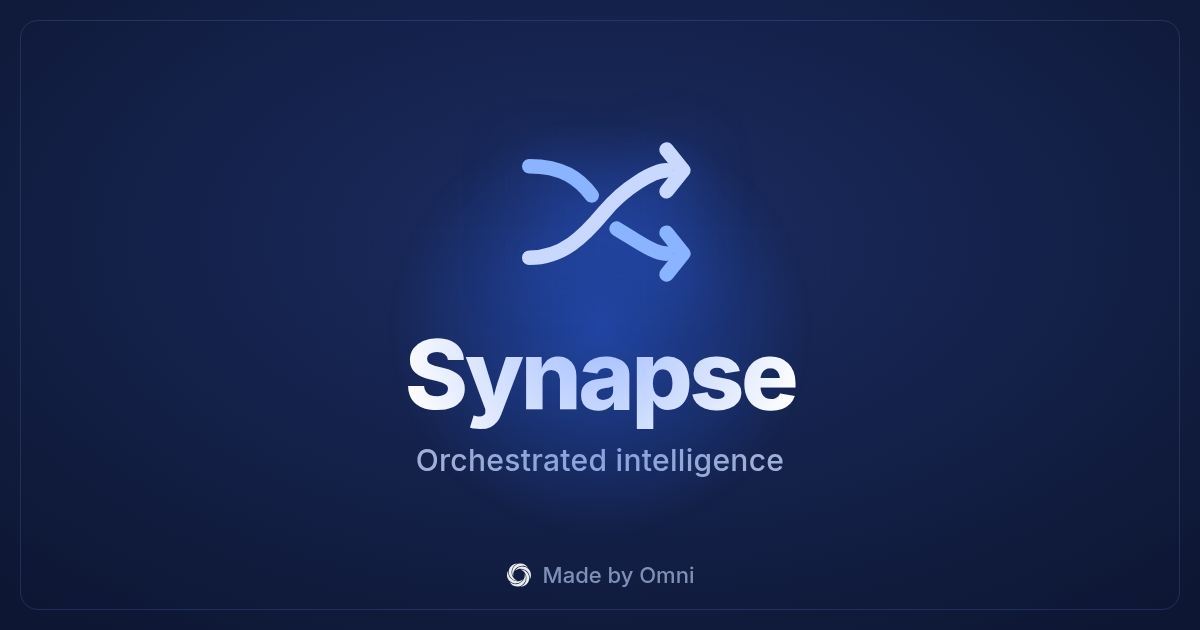
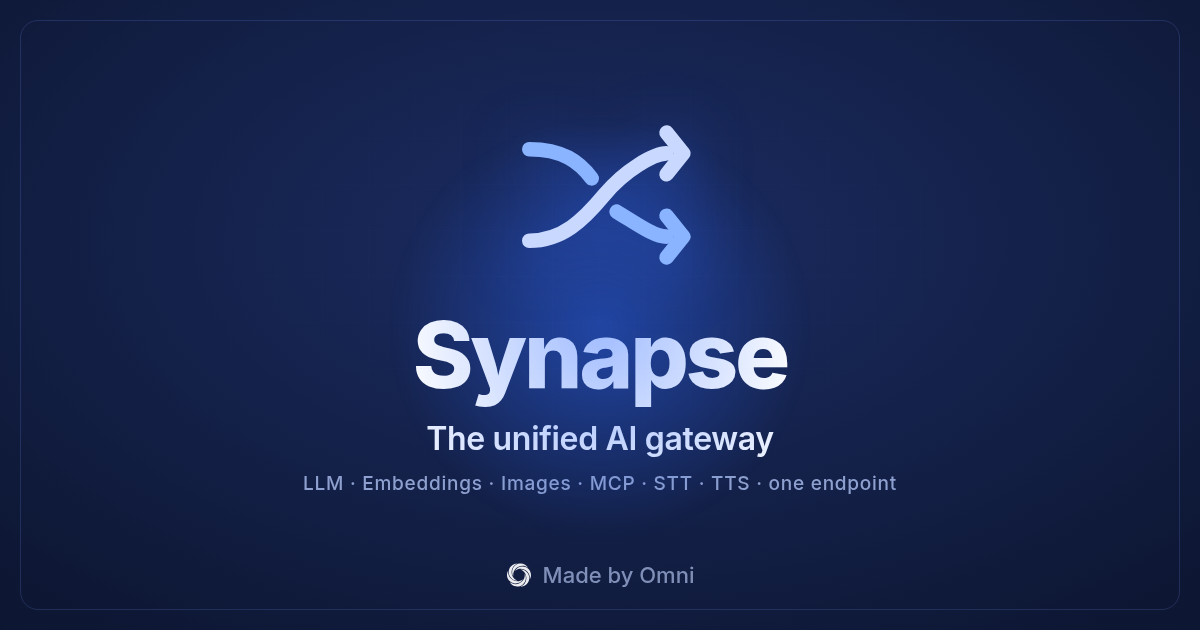
feat(landing): branded hero + de-generic pass, clearer OG (#69)
- Rework the hero: bold display headline over a dimmed neural-graph backdrop
  with a legibility scrim + brand glow, so the type is crisp instead of clashing
  with the 3D. Hero text is selectable.
- Less generic: editorial section headings (no // eyebrows), de-glassed
  feature/diagram/code panels, thin-stroke brand icons instead of soft icon
  squares, brand underline accent on hover across all cards.
- Concrete bottom CTA ("Point your SDK at Synapse") in place of shimmer text.
- OG card now states what it is: "The unified AI gateway" + modality line.

Changed region(s): [[0.2467, 0.5127, 0.74, 0.7841], [0.4317, 0.2111, 0.5858, 0.4524]]

diff --git a/src/components/landing/LandingHybrid.tsx b/src/components/landing/LandingHybrid.tsx
@@ -270,9 +270,10 @@ const LandingHybrid: FC = () => {
       </div>
 
       {/* Hero */}
-      <section className="relative h-[70vh] min-h-[480px] w-full overflow-visible sm:h-[80vh] sm:min-h-[560px] lg:h-[85vh] lg:min-h-[640px]">
+      <section className="relative flex min-h-[90vh] w-full flex-col items-center justify-center overflow-visible px-4 py-24 sm:py-28">
+        {/* 3D neural graph backdrop (ambient, framed behind the headline) */}
         <div
-          className="absolute inset-0 overflow-visible"
+          className="pointer-events-none absolute inset-0 overflow-visible opacity-35 sm:opacity-45"
           style={{ touchAction: "pan-y" }}
         >
           <Canvas
@@ -301,68 +302,104 @@ const LandingHybrid: FC = () => {
           </Canvas>
         </div>
 
-        {/* CTA overlay */}
-        <div className="pointer-events-none absolute inset-x-0 bottom-0 flex justify-center px-4 pb-8 sm:pb-12 lg:pb-16">
-          <div className="pointer-events-auto flex flex-col items-center gap-3 text-center sm:gap-4">
-            <p className="max-w-sm text-muted-foreground text-xs leading-relaxed sm:max-w-md sm:text-sm lg:max-w-lg lg:text-base">
-              Route to any model, track every token, and manage your keys
-              through one unified control plane
-            </p>
-            <div className="flex flex-wrap justify-center gap-2 sm:gap-3">
-              <InternalLink to="/dashboard" variant="unstyled">
-                <Button
-                  variant="solid"
-                  size="lg"
-                  className="text-sm sm:text-base"
-                >
-                  Get Started
-                </Button>
-              </InternalLink>
-              <InternalLink to="/pricing" variant="unstyled">
-                <Button
-                  variant="outline"
-                  size="lg"
-                  className="text-sm sm:text-base"
-                >
-                  View Pricing
-                </Button>
-              </InternalLink>
-            </div>
+        {/* Legibility scrim: fades the graph to near-solid background behind the
+            headline so the type stays crisp while the graph frames the edges */}
+        <div
+          className="pointer-events-none absolute inset-0 z-[1]"
+          style={{
+            background:
+              "radial-gradient(ellipse 56% 50% at 50% 46%, transparent 0%, color-mix(in oklch, var(--background) 82%, transparent) 48%, var(--background) 74%)",
+          }}
+        />
+
+        {/* Brand glow */}
+        <div
+          className="pointer-events-none absolute top-[42%] left-1/2 z-[2] size-[680px] max-w-[94vw] -translate-x-1/2 -translate-y-1/2 rounded-full blur-3xl"
+          style={{
+            background:
+              "radial-gradient(circle, color-mix(in oklch, var(--primary) 30%, transparent) 0%, transparent 62%)",
+          }}
+        />
+
+        {/* Headline */}
+        <div className="pointer-events-auto relative z-10 flex max-w-4xl select-text flex-col items-center text-center [text-shadow:0_1px_30px_var(--background)]">
+          <h1 className="font-bold font-display text-5xl text-foreground leading-[1.02] tracking-tight sm:text-7xl lg:text-8xl dark:text-white">
+            One endpoint for{" "}
+            <span className="bg-gradient-to-r from-primary via-primary to-secondary bg-clip-text text-transparent [-webkit-text-fill-color:transparent]">
+              every model
+            </span>
+          </h1>
+          <p className="mt-6 max-w-xl text-balance text-base text-muted-foreground leading-relaxed sm:text-lg">
+            Route, fail over, and meter every LLM, embedding, image, MCP, STT,
+            and TTS provider through a single API. Bring your own keys, no token
+            tax, fully self-hostable.
+          </p>
+          <div className="pointer-events-auto mt-8 flex flex-wrap justify-center gap-3">
+            <InternalLink to="/dashboard" variant="unstyled">
+              <Button
+                variant="solid"
+                size="lg"
+                className="text-sm sm:text-base"
+              >
+                Get Started Free
+              </Button>
+            </InternalLink>
+            <InternalLink to="/pricing" variant="unstyled">
+              <Button
+                variant="outline"
+                size="lg"
+                className="text-sm sm:text-base"
+              >
+                View Pricing
+              </Button>
+            </InternalLink>
           </div>
+          <p className="mt-6 font-mono text-[11px] text-muted-foreground/60 tracking-wide">
+            OpenAI- &amp; Anthropic-compatible · BYOK · Apache-2.0
+          </p>
         </div>
       </section>
 
-      {/* Content cards */}
-      <section className="relative mx-auto w-full max-w-5xl px-4 py-8 sm:py-12 lg:py-16">
-        <div className="grid gap-4 sm:grid-cols-2 sm:gap-5">
-          {/* Feature cards (nodes 1-4) */}
+      {/* Control plane */}
+      <section className="relative mx-auto w-full max-w-5xl px-4 py-14 sm:py-20 lg:py-24">
+        <div className="mb-9 max-w-2xl sm:mb-12">
+          <h2 className="font-display font-semibold text-2xl text-foreground leading-tight tracking-tight sm:text-4xl dark:text-white">
+            Everything between your app and the models.
+          </h2>
+        </div>
+        <div className="grid gap-3.5 sm:grid-cols-2 sm:gap-4">
+          {/* Feature nodes (01-04) */}
           {contentNodes.map(
-            ({ icon: Icon, title, description, iconClasses, nodeId }) => (
-              <div
-                key={title}
-                className="relative rounded-xl border border-border bg-card/80 p-5 backdrop-blur-sm sm:p-6 dark:bg-white/[0.06]"
-              >
-                <span className="absolute top-3 right-3 font-mono text-[10px] text-muted-foreground/40 tracking-wider sm:top-4 sm:right-4">
-                  {nodeId}
-                </span>
-
+            ({ icon: Icon, title, description, iconClasses, nodeId }) => {
+              const accent = iconClasses.includes("secondary")
+                ? "text-secondary"
+                : "text-primary";
+              return (
                 <div
-                  className={`mb-3 flex size-9 items-center justify-center rounded-lg sm:mb-4 sm:size-10 ${iconClasses}`}
+                  key={title}
+                  className="group relative overflow-hidden rounded-lg border border-border/70 bg-foreground/[0.015] p-5 transition-colors hover:border-primary/40 sm:p-6 dark:bg-white/[0.02] dark:hover:bg-white/[0.035]"
                 >
-                  <Icon className="size-4 sm:size-5" />
+                  <span className="absolute top-4 right-4 font-mono text-[10px] text-muted-foreground/35 tracking-wider">
+                    {nodeId}
+                  </span>
+                  <Icon className={`size-5 ${accent}`} strokeWidth={1.6} />
+                  <h3 className="mt-4 font-medium text-base text-foreground sm:text-lg dark:text-white">
+                    {title}
+                  </h3>
+                  <p className="mt-1.5 text-muted-foreground text-sm leading-relaxed">
+                    {description}
+                  </p>
+                  {/* hover underline accent */}
+                  <span
+                    className={`absolute bottom-0 left-0 h-px w-0 transition-all duration-300 group-hover:w-full ${accent.replace("text-", "bg-")}`}
+                  />
                 </div>
-                <h3 className="font-semibold text-base text-foreground sm:text-lg dark:text-white">
-                  {title}
-                </h3>
-                <p className="mt-1.5 text-muted-foreground text-xs leading-relaxed sm:mt-2 sm:text-sm">
-                  {description}
-                </p>
-              </div>
-            ),
+              );
+            },
           )}
 
           {/* Routing diagram (node_05) */}
-          <div className="relative flex flex-col items-center rounded-xl border border-border bg-card/80 p-5 backdrop-blur-sm sm:p-6 dark:bg-white/[0.06]">
+          <div className="group relative flex flex-col items-center overflow-hidden rounded-lg border border-border/70 bg-foreground/[0.015] p-5 transition-colors hover:border-primary/40 sm:p-6 dark:bg-white/[0.02] dark:hover:bg-white/[0.035]">
             <span className="absolute top-3 right-3 font-mono text-[10px] text-muted-foreground/40 tracking-wider sm:top-4 sm:right-4">
               node_05
             </span>
@@ -374,10 +411,11 @@ const LandingHybrid: FC = () => {
               -- with built-in fallback chains
             </p>
             <RoutingDiagram />
+            <span className="absolute bottom-0 left-0 h-px w-0 bg-primary transition-all duration-300 group-hover:w-full" />
           </div>
 
           {/* Code snippet (node_06) */}
-          <div className="relative self-start overflow-hidden rounded-xl border border-border bg-card/80 backdrop-blur-sm dark:bg-white/[0.06]">
+          <div className="group relative self-start overflow-hidden rounded-lg border border-border/70 bg-foreground/[0.015] transition-colors hover:border-secondary/40 dark:bg-white/[0.02] dark:hover:bg-white/[0.035]">
             <div className="flex items-center gap-2 border-border border-b px-4 py-2 sm:px-5 sm:py-2.5">
               <div className="size-2 rounded-full bg-primary/20 sm:size-2.5" />
               <div className="size-2 rounded-full bg-secondary/20 sm:size-2.5" />
@@ -431,18 +469,19 @@ const LandingHybrid: FC = () => {
               </div>
               <div className="text-muted-foreground">{"}"}</div>
             </pre>
+            <span className="absolute bottom-0 left-0 h-px w-0 bg-secondary transition-all duration-300 group-hover:w-full" />
           </div>
         </div>
       </section>
 
       {/* Bottom CTA */}
       <section className="flex flex-col items-center px-4 pb-16 text-center sm:pb-20 lg:pb-24">
-        <h2 className="font-bold text-shimmer text-xl sm:text-2xl lg:text-3xl">
-          Ready to unify your AI stack?
+        <h2 className="font-bold font-display text-3xl text-foreground tracking-tight sm:text-4xl lg:text-5xl dark:text-white">
+          Point your SDK at Synapse.
         </h2>
-        <p className="mt-2 max-w-sm text-muted-foreground text-xs sm:mt-3 sm:max-w-md sm:text-sm">
-          Start routing requests through Synapse in minutes. Free tier included,
-          no credit card required
+        <p className="mt-3 max-w-md text-muted-foreground text-sm">
+          Keep your OpenAI or Anthropic client, change the base URL, and get
+          routing, failover, and metering for free.
         </p>
         <div className="mt-4 flex flex-wrap justify-center gap-2 sm:mt-6 sm:gap-3">
           <InternalLink to="/dashboard" variant="unstyled">

diff --git a/scripts/og/synapse-og.html b/scripts/og/synapse-og.html
@@ -45,8 +45,9 @@
   .frame { position: absolute; inset: 20px; border: 1.5px solid rgba(120,150,255,.18); border-radius: 18px; pointer-events: none; }
   .crest { width: 208px; height: 208px; margin-bottom: 6px; position: relative; filter: drop-shadow(0 8px 30px rgba(45,106,255,.5)); }
   .crest svg { width: 100%; height: 100%; display: block; }
-  .word { font-weight: 800; font-size: 96px; line-height: 1; letter-spacing: -.035em; color: #fff; margin-top: 4px; }
-  .sub  { font-weight: 500; font-size: 30px; color: #9fb0d6; margin-top: 20px; letter-spacing: .01em; }
+  .word { font-weight: 800; font-size: 92px; line-height: 1; letter-spacing: -.035em; color: #fff; margin-top: 4px; }
+  .sub  { font-weight: 600; font-size: 32px; color: #eaf0ff; margin-top: 18px; letter-spacing: -.01em; }
+  .tag  { font-weight: 500; font-size: 19px; color: #8ea0cf; margin-top: 14px; letter-spacing: .04em; }
   .credit {
     position: absolute; left: 0; right: 0; bottom: 42px;
     display: flex; align-items: center; justify-content: center; gap: 11px;
@@ -70,7 +71,8 @@
       </svg>
     </div>
     <div class="word">Synapse</div>
-    <div class="sub">Orchestrated intelligence</div>
+    <div class="sub">The unified AI gateway</div>
+    <div class="tag">LLM · Embeddings · Images · MCP · STT · TTS · one endpoint</div>
     <div class="credit"><span class="omni"><svg xmlns="http://www.w3.org/2000/svg" viewBox="0 0 400 400" role="img" aria-label="Omni">
   <path fill="#fff" d="m305.55,251.06c-2.25,39.89-22.63,78.45-54.97,102.2-.02,0-.03.02-.05.03-35.35,24.87-81.6,30.43-121.78,16.38-.35-.12-.7-.25-1.04-.37-26.04-9.8-49.08-27.59-64.36-51.03-.35-.54-.7-1.07-1.03-1.61-.36-.56-.7-1.12-1.04-1.68-.84-1.36-1.63-2.74-2.4-4.14-.38-.69-.78-1.4-1.15-2.11,99.71,81.94,249.46-2.53,229.47-130.45,14.13,22.6,19.75,47.95,18.34,72.79Z"/>
   <path fill="#fff" d="m350.16,291.36c-13.92,38.42-46.39,68.99-85.59,80.61-13.5,4.1-27.59,5.99-41.62,5.63,120.83-45.38,122.54-217.31,1.77-263.96,90.07-3.14,158.73,93.67,125.44,177.72Z"/>
